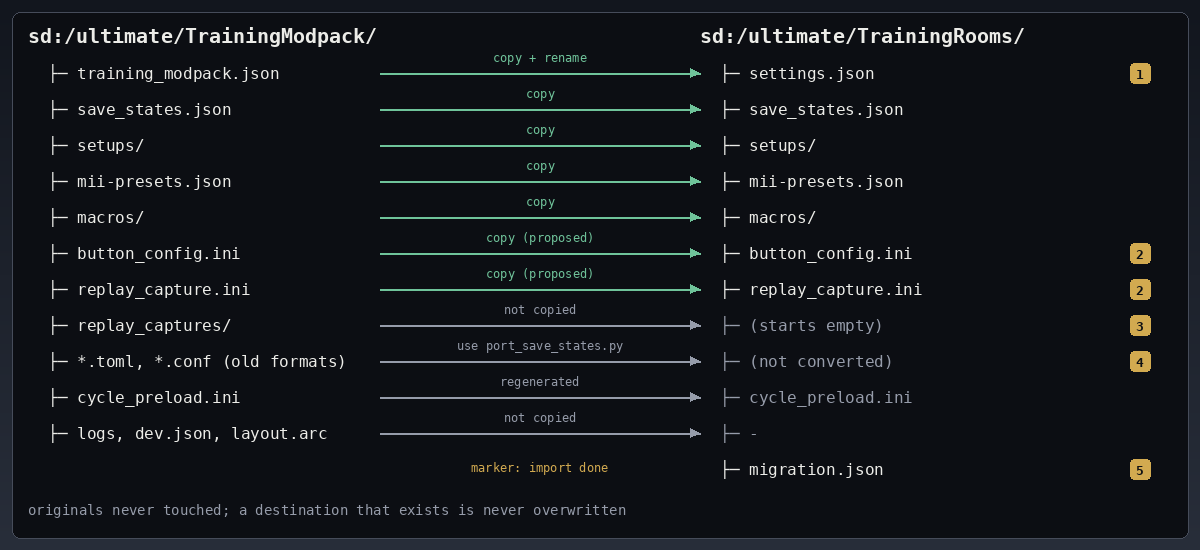
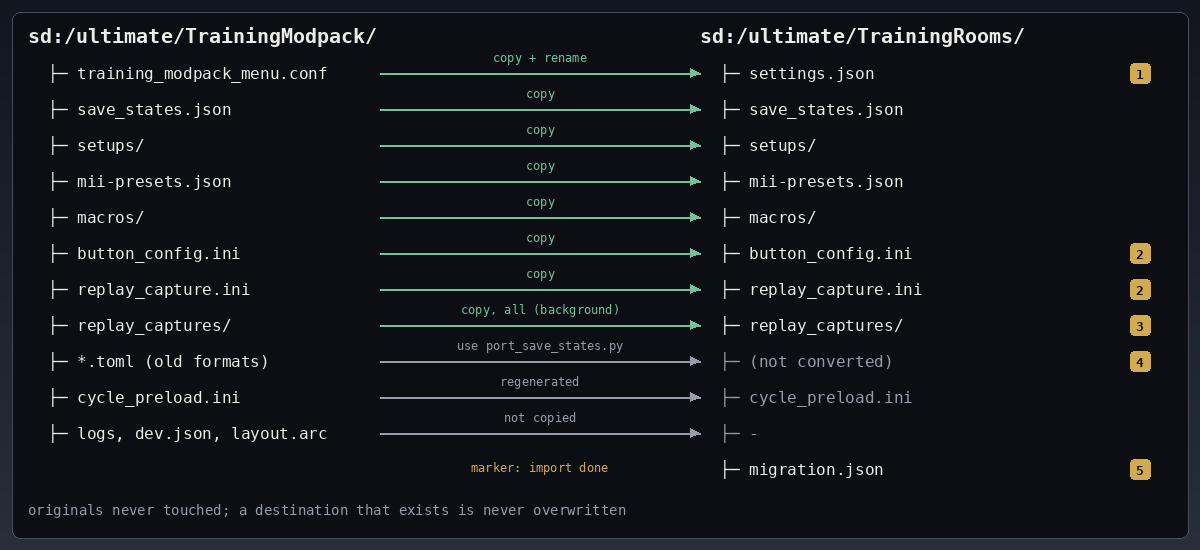
Fork settings source is training_modpack_menu.conf; unknown keys kept on rewrite (docs only)
- The fork keeps the player's menu settings in training_modpack_menu.conf;
  training_modpack.json is the updater record and is not imported (card listing
  switch-c1162-firstboot/list-TrainingModpack.txt). S1's meaning is unchanged.
  Corrected in DECISIONS.md, SPEC-core-04/-08, INDEX-core, SPEC-state-01,
  PROVENANCE.md, implementation-packages.md, CARD-SWAP-PLAN.md (plus the card's
  trace/debug files in "not copied"), and the S1 picture (INIs copied,
  replay_captures copied in full).
- SPEC-core-04: unknown settings keys round-trip on rewrite; retired keys dropped.
- Handoff: package 1 checkpoint (local branch work/implementation, not pushed).

diff --git a/tools/render_decisions.py b/tools/render_decisions.py
@@ -514,15 +514,15 @@ def d_import():
     c.rect(12, 12, WIDE - 12, 538, fill=PANEL, outline=LINE, radius=8)
     c.text(28, 24, "sd:/ultimate/TrainingModpack/", "h", FG)
     c.text(700, 24, "sd:/ultimate/TrainingRooms/", "h", FG)
-    rows_ = [("training_modpack.json", "settings.json", "1", OURS, "copy + rename"),
+    rows_ = [("training_modpack_menu.conf", "settings.json", "1", OURS, "copy + rename"),
              ("save_states.json", "save_states.json", None, OURS, "copy"),
              ("setups/", "setups/", None, OURS, "copy"),
              ("mii-presets.json", "mii-presets.json", None, OURS, "copy"),
              ("macros/", "macros/", None, OURS, "copy"),
-             ("button_config.ini", "button_config.ini", "2", OURS, "copy (proposed)"),
-             ("replay_capture.ini", "replay_capture.ini", "2", OURS, "copy (proposed)"),
-             ("replay_captures/", "(starts empty)", "3", MUTED, "not copied"),
-             ("*.toml, *.conf (old formats)", "(not converted)", "4", MUTED, "use port_save_states.py"),
+             ("button_config.ini", "button_config.ini", "2", OURS, "copy"),
+             ("replay_capture.ini", "replay_capture.ini", "2", OURS, "copy"),
+             ("replay_captures/", "replay_captures/", "3", OURS, "copy, all (background)"),
+             ("*.toml (old formats)", "(not converted)", "4", MUTED, "use port_save_states.py"),
              ("cycle_preload.ini", "cycle_preload.ini", None, MUTED, "regenerated"),
              ("logs, dev.json, layout.arc", "-", None, MUTED, "not copied"),
              (None, "migration.json", "5", ADV, "marker: import done")]

diff --git a/specs/INDEX-core.md b/specs/INDEX-core.md
@@ -12,7 +12,7 @@ Spec writer: Claude agent (Fable 5.1), 2026-11-01. Upstream baseline `97cbe9b9`;
 | `SPEC-core-04-menu-persistence.md` | draft | `src/common/menu.rs` (load/commit); `src/common/filesystem.rs` (writer, JSON/TOML helpers); `training_mod_consts/src/files.rs`; `training_mod_consts/src/config.rs` (updater file); `training_mod_consts/src/lib.rs` (`MenuJsonStruct`); `training_mod_tui/src/containers/app.rs` (serialization shape); `src/lib.rs` (legacy folder migration, loader thread) | `training_mod_consts/src/menu_json.rs` (envelope extensions `mii_preferences`/`stage_preferences`, stage-preference recovery, fixed-slot roster import, duplicate-key rejection); `training_mod_consts/src/lib.rs` 296-308 (envelope), per-field `serde(default)` on fork rows; `src/common/menu.rs` 95-97 (`cycle_preload.ini` overlay), 118-125; `src/common/filesystem.rs` 25-37, 55-91 (owned-trace write jobs) | `training_mod_consts/src/files.rs` 5-10 and `config.rs` 6-7, 16-17, 20-25, 35-47, 63, 65, 79, 82, 88, 96 (TOML→JSON for every config file; TOML 0.5 could not emit values after tables — the clean room has one serialization format); `src/common/filesystem.rs` 12-17 (64 KiB writer stack); retired keys accepted and ignored on load (`update_policy`, `menu_open_start_press`) |
 | `SPEC-core-05-layout-archive-and-hud.md` | draft | `src/training/ui/mod.rs` (draw hook on the layout vtable entry, archive hook, `fade_out`, `set_icon_text`); `src/training/ui/display.rs` (native combo-display toggle read); `src/common/mod.rs` (`PauseMenu` structure, `TRAINING_MENU_ADDR`); `src/common/offsets.rs` (`DRAW`, `LAYOUT_ARC_MALLOC`); `Cargo.toml` (`layout_arc_from_file`, `include-flate`, `sarc`) | `src/training/ui/mod.rs` 39-40, 288-305, 352-374 (waiting-room archive reconstruction), 143-230 waiting-host and replay/lobby lines inside `tick`, `waiting_archive.rs`, `layout_registry.rs` (registry name lookup, fork's own use); `anchors.rs` logging/probe lines | `src/training/ui/mod.rs` 29-102 and `archive_retirement.rs` (**REVISION33 archive lifetime**: inflate per load, park, release after 5 s on the heartbeat thread — required), 284-286 (pointer/size sanity bounds 4 B..16 MiB), 307-316 and `archive_name.rs` (**borrowed SARC directory lookup** instead of parsing/cloning the whole archive), 185-202 (HUD rule unchanged in substance); `anchors.rs` + `training_mod_macros/src/ui_anchor.rs` + `src/common/offsets.rs` 209-234 (**REVISION29/30 draw decoupling**: two inline anchors at the virtual-calculate call sites instead of replacing the shared vtable entry; manager located past another plugin's entry stub — adopted as the design); `native_menu.rs` + `display.rs` 28 (**combo-display read from the freshly loaded byte at two observed sites instead of a retained native pointer**); `training_mod_macros` pin verdict `site_owned_by_another_plugin` vocabulary |
 | `SPEC-core-06-hitbox-visualizer.md` | draft | `src/hitbox_visualizer/mod.rs` (`97cbe9b9` and `077a8e43`); `src/training/mod.rs` (per-frame call); `training_mod_consts/src/lib.rs` (`hitbox_vis` default) | `src/hitbox_visualizer/mod.rs` 224-225, 272, 328 (`practice::visualizes(accessor)` per-fighter gate for lobby practice — hook to carry) | `src/hitbox_visualizer/mod.rs` 354-367 (each of the three sites guarded and installed independently, all windows checked before any install); upstream `077a8e43` +4 (Training-only early return in the per-frame pass) |
-| `SPEC-core-08-storage-root-and-migration.md` (lead, 2026-11-01) | draft | none (project decision: storage root `sd:/ultimate/TrainingRooms/`; one-time first-boot import of the fork's `training_modpack.json`, `save_states.json`, `setups/`, `mii-presets.json`, `macros/`; originals untouched; marker `migration.json`) | the fork's file layout (`files.rs`, `menu_json.rs`, the libraries) carried over under the new root | decides SPEC-core-01 Q2 and SPEC-core-04 Q3 (and SPEC-input-01 #15, SPEC-state-01 #9); its own open questions were answered 2026-11-01 (S1): rename to `settings.json`, import both INIs, **`replay_captures/` imported in full without blocking the boot (N8)**, TOML-only cards not converted, re-run by the marker only; draft 9 adds the item-on-load conversion (N6) |
+| `SPEC-core-08-storage-root-and-migration.md` (lead, 2026-11-01) | draft | none (project decision: storage root `sd:/ultimate/TrainingRooms/`; one-time first-boot import of the fork's `training_modpack_menu.conf` (renamed `settings.json`), `save_states.json`, `setups/`, `mii-presets.json`, `macros/`; originals untouched; marker `migration.json`) | the fork's file layout (`files.rs`, `menu_json.rs`, the libraries) carried over under the new root | decides SPEC-core-01 Q2 and SPEC-core-04 Q3 (and SPEC-input-01 #15, SPEC-state-01 #9); its own open questions were answered 2026-11-01 (S1): rename to `settings.json`, import both INIs, **`replay_captures/` imported in full without blocking the boot (N8)**, TOML-only cards not converted, re-run by the marker only; draft 9 adds the item-on-load conversion (N6) |
 | `SPEC-core-07-assets-inventory.md` | draft | `src/static/img/*.svg` (42); `src/static/layout.arc` (member and pane names); `photos/*` (11 README images) | fork generators `scripts/roster-grid/*`, `scripts/stage-grid/*`, `scripts/item-icons/*`, `scripts/make_waiting_patch.py`, `scripts/waiting_patch_manifest.json`, `src/static/waiting_ui.patch` (all derived from the player's game files — carry over as tools); fork `layout.arc` additions (roster grid, stage grid, item icons) | none (the upstream artwork is replaced, not fixed): `check.svg` is Font Awesome Pro (commercial license), `m_retnormal.svg` is an Illustrator export that is most likely a game texture, the archive embeds game-owned stock files |
 
 ## Cross-area notes

diff --git a/specs/SPEC-core-04-menu-persistence.md b/specs/SPEC-core-04-menu-persistence.md
@@ -68,7 +68,7 @@ None in game memory. Files:
 
 - **Missing file**: factory settings; the file is created at the first close.
 - **Corrupt file** (not JSON, wrong types, missing required key, duplicate key): upstream deleted it on the spot and continued with factory settings. Recommendation (Q2): keep the file, rename it to `settings.invalid-<n>.json`, log, continue with factory settings; load every setting that parses and default the rest (per-field defaults).
-- **File from a newer build** with extra keys: loads; extras are ignored and **dropped on the next write** (the writer emits only known keys).
+- **File from a newer build** with extra keys: loads; extras are ignored and **kept on the next write** (lead decision 2026-11-02: unknown keys round-trip unchanged, so a newer build's file, or rows a package does not implement yet, survive a write by this build; only the retired keys `update_policy`, `menu_open_start_press` and `character_item` are dropped).
 - **File from an older build** with fewer keys: loads only if every known key has a default (clean room) — upstream would have deleted it.
 - **Upstream file in the user's old folder**: the key set and value shape are identical for all upstream rows, so an upstream `training_modpack_menu.conf` can be imported as-is (SPEC-core-01 Q2); `update_policy` and `menu_open_start_press` are ignored.
 - **Fork envelope**: `mii_preferences` (per role/class identity selectors; invalid selectors are dropped individually) and `stage_preferences` (mode, direct stage, forms; invalid content is rejected and the file is re-read without it, keeping the numeric settings and reporting the reason) — fork's own, carry over with its tests. The fork also imports retired fixed-slot roster keys of its own older builds (`trio_fighter_1..3`, `player_roster_4..8`, `cpu_roster_1..8`, `*_roster_size` one-hot arrays) into ordered rosters once and never writes them again — fork's own.
@@ -97,7 +97,7 @@ This spec *is* the persistence spec: file `sd:/ultimate/TrainingRooms/settings.j
 | --- | --- | --- | --- |
 | Wire shape: every setting an array in declaration order; OnOff `[1,0]`/`[0,1]`; sliders `[lower, upper]`; chord bit order | `core04_wire_shape_fixture` (fixture file pinned) | `core04-E1` read the file after a close | `docs/EDEN-RESULTS.md` |
 | Factory file round trip; defaults snapshot independent of settings | `core04_roundtrip_factory`, `core04_defaults_independent` | `core04-E2` X then restart then reset | — |
-| Unknown keys ignored and dropped on rewrite | `core04_unknown_keys_ignored` | — | — |
+| Unknown keys ignored on load and kept on rewrite; retired keys dropped | `core04_unknown_keys_ignored` | — | — |
 | Missing keys take defaults (every field) | `core04_missing_keys_default` | `core04-E3` older file | — |
 | Corrupt file: preserved under another name, factory used, logged | `core04_corrupt_file_policy` | `core04-E4` | `docs/EDEN-RESULTS.md` |
 | Duplicate key rejected | `core04_duplicate_key_error` | — | — |
@@ -112,7 +112,7 @@ This spec *is* the persistence spec: file `sd:/ultimate/TrainingRooms/settings.j
 
 1. **Byte-exact sample.** The writer did not transcribe a real upstream settings file (none is checked into either tree). Recommendation: capture one from an Eden run of the fork into the test fixtures before implementation, so the clean room's fixture is validated against a real file rather than this description.
 2. **Corrupt-file policy.** Upstream deletes; recommendation: preserve and rename, per-field defaults. Operator decision because it changes a user-visible recovery path. **Decided 2026-11-01 (S2): as recommended;** keep a renamed copy and load field by field.
-3. **File name and location.** `settings.json` under `sd:/ultimate/TrainingRooms/`; or keep upstream's `.conf` name for drop-in import. Recommendation: new name, plus a one-time import of the upstream file (SPEC-core-01 Q2). **Decided 2026-11-01 (S1 item 1, SPEC-core-08): `settings.json`;** the import copies the fork's `training_modpack.json` under that name, and the loader also accepts the old name once. (This spec's earlier working name `menu.json` is superseded.)
+3. **File name and location.** `settings.json` under `sd:/ultimate/TrainingRooms/`; or keep upstream's `.conf` name for drop-in import. Recommendation: new name, plus a one-time import of the upstream file (SPEC-core-01 Q2). **Decided 2026-11-01 (S1 item 1, SPEC-core-08): `settings.json`;** the import copies the fork's `training_modpack_menu.conf` under that name (corrected 2026-11-02; `training_modpack.json` is the updater record and is not imported), and the loader also accepts the old name once. (This spec's earlier working name `menu.json` is superseded.)
 4. **Updater config file.** With auto-update dropped, `training_modpack.json` has no reader. Recommendation: do not create it.
 5. **Asynchronous write.** Keep the writer thread (shared with save states and recordings) or write the small menu file synchronously at close. Recommendation: keep one writer thread with a 64 KiB stack for all files, flush on the panic path.
 6. **Pretty vs compact JSON.** Upstream pretty-printed. Recommendation: pretty, for hand editing.

diff --git a/specs/SPEC-core-08-storage-root-and-migration.md b/specs/SPEC-core-08-storage-root-and-migration.md
@@ -35,7 +35,8 @@ same card and a downgrade loses nothing.
   next boot (documented in the README). There is no menu row for it (S1 item 5,
   decided 2026-11-01).
 - **Draft 9 additions (decided 2026-11-01).** The import also (a) copies the
-  fork's `training_modpack.json` under the new name `settings.json` (S1 item 1);
+  fork's `training_modpack_menu.conf` (its settings file, JSON content) under the
+  new name `settings.json` (S1 item 1; corrected 2026-11-02);
   (b) copies `button_config.ini` and `replay_capture.ini` (S1 item 2);
   (c) copies `replay_captures/` **in full, with no size cap** (S1 item 3, N8),
   because it holds the companions the Replay Window crops macros from; it does
@@ -62,7 +63,7 @@ Imported (copied; the operator's list, 2026-11-01):
 
 | Source (`sd:/ultimate/TrainingModpack/`) | Destination (`sd:/ultimate/TrainingRooms/`) | What it holds | Rule |
 | --- | --- | --- | --- |
-| `training_modpack.json` | `settings.json` (S1 item 1, decided 2026-11-01; the loader also accepts the old name once) | menu settings and saved defaults (fork JSON envelope, SPEC-core-04); retired keys `update_policy`, `menu_open_start_press`, `character_item` ignored on load | copy if destination absent |
+| `training_modpack_menu.conf` | `settings.json` (S1 item 1, decided 2026-11-01; source name corrected 2026-11-02; the loader also accepts the old name once) | menu settings and saved defaults (fork JSON envelope, SPEC-core-04); retired keys `update_policy`, `menu_open_start_press`, `character_item` ignored on load | copy if destination absent |
 | `button_config.ini` | `button_config.ini` (S1 item 2, decided 2026-11-01) | the menu shortcuts (SPEC-input-04 §7); the file of record that the menu now edits | copy if destination absent |
 | `replay_capture.ini` | `replay_capture.ini` (S1 item 2) | the replay-capture on/off choice (`enabled=on/off`) | copy if destination absent |
 | `replay_captures/` (every file) | `replay_captures/` (S1 item 3, N8; decided 2026-11-01) | the match captures (`.smd`) the Replay Window crops macros from, in full, no size cap | copy each file if absent; **background, non-blocking** (§5); the originals stay |
@@ -75,8 +76,8 @@ Not migrated (and why):
 
 | Source | Why not |
 | --- | --- |
-| `training_modpack_menu.conf`, `training_modpack_menu_defaults.conf`, `training_modpack_menu.json`, `*.toml` | legacy formats of upstream and of the fork before its JSON port; the fork's `tools/port_save_states.py` converted them at the C116 upgrade; a card that has only these never ran the JSON fork (open question 4) |
-| `cycle_preload.ini` | a cache of menu choices the fork rewrites at boot; the imported settings file is authoritative and the plugin regenerates it |
+| `training_modpack.json` | the fork's updater record (`{"update":{"last_update_version":…}}`, 72 B on the card), not settings; the clean room has no updater (SPEC-core-04 Q4). Corrected 2026-11-02: an earlier draft named this file as the settings source |
+| `training_modpack_menu_defaults.conf`, `training_modpack_menu.json`, `*.toml` | legacy formats of upstream and of the fork before its JSON port; the fork's `tools/port_save_states.py` converted them at the C116 upgrade; a card that has only these never ran the JSON fork (open question 4). (`training_modpack_menu.conf` is not in this row: it is the settings file imported above.) || `cycle_preload.ini` | a cache of menu choices the fork rewrites at boot; the imported settings file is authoritative and the plugin regenerates it |
 | `practice-diagnostics.log`, `practice-diagnostics.previous.log`, `version.txt` | fork diagnostics and version stamp |
 | `dev.json`, `layout.arc` | development-only inputs of the fork (`dev_config`, `layout_arc_from_file`) |
 | the legacy root `sd:/TrainingModpack/` | upstream moved off it years ago; the fork migrated it into `sd:/ultimate/TrainingModpack/` already; not read |
@@ -200,8 +201,8 @@ else is the owning spec's file, now under the new root.
 ## 10. Open questions
 
 1. **File name of the settings file** under the new root: keep the fork's
-   `training_modpack.json` (zero change to the carried-over JSON code and the
-   fork's `port_save_states.py`) or rename it to `settings.json` at import
+   `training_modpack_menu.conf` (corrected 2026-11-02; an earlier draft said
+   `training_modpack.json`, which is the updater record) or rename it to `settings.json` at import
    (cleaner; one rename in the loader). Recommendation: rename; the loader
    also accepts the old name once. **Decided 2026-11-01 (S1 item 1): as recommended;** rename (the file is copied under the name `settings.json`).
 2. **Import `button_config.ini` and `replay_capture.ini`** as well? They are

diff --git a/PROVENANCE.md b/PROVENANCE.md
@@ -240,7 +240,7 @@ measurement (REVISION32) is an input to the size budget, not a rule.
 ## Open questions for the operator
 
 1. **MIT copyright holder.** Decided 2026-11-01: the handle; `LICENSE` reads `Copyright (c) 2026 intpa` and stays so.
-1a. **Storage root.** Decided 2026-11-01: `sd:/ultimate/TrainingRooms/`, with a one-time first-boot import of the fork's `training_modpack.json`, `save_states.json`, `setups/`, `mii-presets.json` and `macros/` by copying (originals untouched); what is not migrated and the five remaining choices are in `specs/SPEC-core-08-storage-root-and-migration.md`. The five were answered 2026-11-01 (S1): rename to `settings.json`, import both INIs, **import `replay_captures/` in full** (not as proposed; the Replay Window's crop source), TOML-only cards not converted, re-run by the marker only.
+1a. **Storage root.** Decided 2026-11-01: `sd:/ultimate/TrainingRooms/`, with a one-time first-boot import of the fork's `training_modpack_menu.conf` (renamed `settings.json`; corrected 2026-11-02, `training_modpack.json` is the updater record and is not imported), `save_states.json`, `setups/`, `mii-presets.json` and `macros/` by copying (originals untouched); what is not migrated and the five remaining choices are in `specs/SPEC-core-08-storage-root-and-migration.md`. The five were answered 2026-11-01 (S1): rename to `settings.json`, import both INIs, **import `replay_captures/` in full** (not as proposed; the Replay Window's crop source), TOML-only cards not converted, re-run by the marker only.
 2. **Fork docs and media.** The fork's docs (`docs/*.md`, GIFs, PNGs) are ours and carry over; the upstream `photos/` do not. Should the new README reuse the fork's walkthrough GIFs as-is (they show the old menu) or wait for the new menu? **Decided 2026-11-01 (B10): as recommended;** reuse the GIFs that show no menu now, and re-record the menu GIFs after the build.
 3. **Dev-only upstream code** (`dev_config.rs`, `debug.rs`, `raygun_printer.rs`): drop, or keep as `diag`-only behaviour in the clean room? **Decided 2026-11-01 (B9, with menu question 8): neither.** They ship as rows of the hidden *Developer* page (`dev_config` becomes *Reload developer config*, the debug hooks become *Debug hooks*, next to *Preload Samples*), enabled only when `sd:/ultimate/TrainingRooms/developer.ini` has `developer_page=on` (the operator's card and the Eden test profiles do); they are rebuilt from the descriptions in `specs/SPEC-core-01` §2 and §6, not copied. `raygun_printer.rs` is not described in any spec yet, so it has no row until it is.
 4. **`training_mod_sync`** is 36 lines of lock helpers around `parking_lot`; the clean room will use `parking_lot` directly unless you want the helper kept. **Decided 2026-11-01 (B9): `parking_lot` is used directly;** the helper crate is not kept.

diff --git a/docs/CARD-SWAP-PLAN.md b/docs/CARD-SWAP-PLAN.md
@@ -24,13 +24,15 @@ both hook the same sites (`DECISIONS.md` B1).
 
 | Fork file under `sd:/ultimate/TrainingModpack/` | TrainingRooms (`sd:/ultimate/TrainingRooms/`) | How |
 | --- | --- | --- |
-| `training_modpack.json` | `settings.json` | copied and renamed at first boot; setting ids unchanged; *Item on load* is converted once into each save's item snapshot (N6) and dropped |
+| `training_modpack_menu.conf` (the fork's settings, JSON content; 41,649 B on the card) | `settings.json` | copied and renamed at first boot; setting ids unchanged; *Item on load* is converted once into each save's item snapshot (N6) and dropped. Corrected 2026-11-02: an earlier draft named `training_modpack.json`, which is the updater record |
 | `save_states.json` (live) | `save_states.json` | copied at first boot; the file is the one on the card at that moment, so the operator can keep using the fork until the swap |
-| `setups/`, `mii-presets.json`, `macros/` | same names | copied |
+| `setups/`, `mii-presets.json`, `macros/` | same names | copied (the `switch-c1162-firstboot` card listing shows no `setups/` folder: that copy is then empty) |
 | `button_config.ini`, `replay_capture.ini` | same names | copied (S1 item 2); the menu now edits `button_config.ini` (N7) |
 | `replay_captures/` | `replay_captures/` | copied in full, no size cap, on a background thread after boot (N8); the Replay Window lists a capture once its copy is complete |
 | `cycle_preload.ini` | regenerated | not copied |
-| `*.toml`, `*.conf`, logs, `dev.json`, `layout.arc` | – | not copied |
+| `training_modpack.json` (updater record, 72 B) | – | not copied; the clean room has no updater |
+| `*.toml` (the listing shows `training_modpack.toml` and a legacy `save_states.toml` next to the live `save_states.json`), `training_modpack_menu_defaults.conf`, `training_modpack_menu.json`, logs, `dev.json`, `layout.arc`, `version.txt` | – | not copied (named in `SPEC-core-08` §4 *Not migrated*) |
+| `practice-trace*.bin` and `practice-trace*.map.json` (one `.bin` is 1.5 GB), `console-*.bin`, `console-*.log`, `native-unlink.bin`, the `handoff-*` folders, `backups/`, `install/`, `cpu_pilot/` (the pilot's own folder), `mii-editor-last.json` | – | not copied: fork trace, debug and tooling output. `SPEC-core-08` does not name them; its import list is a whitelist (§4 *Imported*), so they are skipped |
 | – | `developer.ini` (`developer_page=on`) | written by the install for the operator's card only (N1) |
 | – | `migration.json` | written by the import when it finishes (marker) |
 

diff --git a/TRAININGROOMS-HANDOFF.md b/TRAININGROOMS-HANDOFF.md
@@ -29,6 +29,20 @@ Updated 2026-11-01 (after the first push) by the lead (Claude agent `aa0f7d3da07
 - Next: merge `review/menu-proposal` into `work/implementation`; Switch build of package 1 (campaign toolchain on
   this Surface, `/home/intpa/smash-training-lobby/toolchain/`, when no Eden runs here, or the Yoga / Ally).
 
+### Package 1 checkpoint and a fact correction — 2026-11-02
+
+- `work/implementation` (local only): `39fd9e0` M1–M3 (crate skeleton per the playbook, carried version guard /
+  diag ring / seam-guard code from stage `m5o`, `settings.json`, Input Delay, L+R+A, hazard scans), `a3cebdc` M4
+  runtime (not yet Switch-compiled), `4138419` merge of `5e34c82`, `d7c6169` import plan. Host gates: `cargo test`
+  88 passed, clippy zero warnings, `--no-default-features` OK. Evidence: `CARRY-OVER.md`,
+  `IMPLEMENTATION-PROGRESS.md`, `docs/test-provenance/package-1.md` in that worktree.
+- Correction (implementer's finding, checked against the card listing `switch-c1162-firstboot/list-TrainingModpack.txt`):
+  the fork's settings live in `training_modpack_menu.conf` (41,649 B); `training_modpack.json` is the updater record
+  (72 B) and is not imported. S1's decision is unchanged in meaning; specs, plan and the S1 picture corrected.
+- Lead decision: unknown settings keys are kept on rewrite (`SPEC-core-04`); retired keys dropped.
+- Running: the implementer on the playbook's `model.rs` / `runtime.rs` roots, the Training reset hub (B8 clear on
+  reset and load), then the Switch build with the campaign toolchain on this Surface.
+
 ### Addendum 2026-11-02 (operator order via the primary): card swap and fixes in both trees
 
 - **Done** = a release candidate with the full gate, batched Eden rows, the playbook's online rows, compliance and an
@@ -325,7 +339,7 @@ on the operator's menu decisions.
 - MIT copyright line reads `Copyright (c) 2026 intpa` — **decided 2026-11-01:
   the handle.**
 - **Storage root decided 2026-11-01:** `sd:/ultimate/TrainingRooms/`; a
-  one-time first-boot import of the fork's `training_modpack.json`,
+  one-time first-boot import of the fork's `training_modpack_menu.conf`,
   `save_states.json`, `setups/`, `mii-presets.json`, `macros/` by copying,
   originals untouched, marker `migration.json`; not migrated: legacy
   TOML/`.conf`, the two INIs (recommended to add), `cycle_preload.ini`

diff --git a/docs/implementation-packages.md b/docs/implementation-packages.md
@@ -18,7 +18,7 @@ small enough to measure cleanly. Everything later plugs into this.
 | --- | --- | --- | --- |
 | Crate layout: `cdylib` only, `model` (host) / `runtime` (`target_os = "switch"`), `diag` feature, release profile per playbook | SPEC-core-01 | the fork's `src/model.rs` version guard (display version + GNU build-id, `model::verdict`) is ours and is reused as-is | `cargo test`, clippy `-D warnings`, `--no-default-features`, `cargo skyline build --release`, diag build |
 | Boot: version guard, site table with 64-byte guards, one install line to `sd:/ultimate/TrainingRooms/events.log`, size-capped diagnostics ring (the fork's `diag_ring`/`logging` ring is ours) | SPEC-core-01 | `src/diag_ring.rs`, the ring part of `src/logging.rs`, `training_mod_consts/src/native_seams/` (seam guards) | install line shows `result=installed heap_allocations=0`; card scan of every site |
-| Settings persistence: load/save the fork's `training_modpack.json` and `save_states.json` shapes, defaults, unknown-field tolerance | SPEC-core-04 | `training_mod_consts/src/menu_json.rs` and its fixtures (ours) | host tests on the ported-JSON fixtures |
+| Settings persistence: load/save the fork's settings (`training_modpack_menu.conf`, JSON content) and `save_states.json` shapes, defaults, unknown-field tolerance | SPEC-core-04 | `training_mod_consts/src/menu_json.rs` and its fixtures (ours) | host tests on the ported-JSON fixtures |
 | Menu **model** (pure, host-tested): pages, sections, dropdown, toggle, checklist, slider, editor rows, sub-screen stack, reset/save-defaults semantics | SPEC-core-02 + `docs/menu-redesign.md` | the fork's grids/lists/panels are carried over later as editor rows | host tests only; no rendering yet |
 | Input Delay | SPEC-input-03 | – | Eden: frame-counted delay check |
 | Stage Hazards | SPEC-state-07 | `src/hazard_manager/policy.rs` (ours) | Eden: hazard on/off on a hazard stage |

diff --git a/docs/DECISIONS.md b/docs/DECISIONS.md
@@ -220,8 +220,8 @@ passed on the patch's own builds; `PATCH.patch` is in the same folder); the pict
 
 The storage root and the import are decided. Five details remain; each has a numbered tag in the picture.
 
-- **1 · settings file name:** rename to `settings.json`, or keep `training_modpack.json`? *Rename*; the loader
-  also accepts the old name once.
+- **1 · settings file name:** rename to `settings.json`, or keep the fork's name `training_modpack_menu.conf`?
+  *Rename*; the loader also accepts the old name once.
 - **2 · the two INIs** (`button_config.ini`, `replay_capture.ini`): import them too? *Yes*, under the same
   rules, so shortcuts and the capture choice survive.
 - **3 · `replay_captures/`:** not imported (the Replay Window starts empty), or imported below a size cap
@@ -236,6 +236,8 @@ Cost: item 2 adds two small files to the copy list. The others cost nothing.
 ![S1 import details](decisions/S1-import-details.png)
 
 **Decided 2026-11-01: as recommended, except item 3.** `replay_captures/` holds the companions the Replay Window crops macros from (`docs/reference/named-macros.md` in the fork), so it is imported in full, with no size cap (N8).
+
+Corrected 2026-11-02: the source is `training_modpack_menu.conf`; `training_modpack.json` is the updater record and is not imported.
 
 ### S2 · Corrupt settings file (`SPEC-core-04` question 2)
 

diff --git a/specs/SPEC-state-01-save-load-core.md b/specs/SPEC-state-01-save-load-core.md
@@ -194,7 +194,7 @@ While either record of the selected slot is KillPlayer or WaitForAlive the plugi
 
 ### 7.1 Files
 
-Upstream wrote TOML to `sd:/ultimate/TrainingModpack/save_states.toml`. The fork's carried-over layer writes pretty JSON to `sd:/ultimate/TrainingModpack/save_states.json` (menu settings in `training_modpack.json` beside it) and ships `tools/port_save_states.py` to convert old TOML. This project's root is `sd:/ultimate/TrainingRooms/`; the file name `save_states.json` is the carried-over contract and the settings file is `settings.json` (SPEC-core-08; open question 9 on the root, decided).
+Upstream wrote TOML to `sd:/ultimate/TrainingModpack/save_states.toml`. The fork's carried-over layer writes pretty JSON to `sd:/ultimate/TrainingModpack/save_states.json` (menu settings in `training_modpack_menu.conf` beside it; corrected 2026-11-02, `training_modpack.json` is the updater record) and ships `tools/port_save_states.py` to convert old TOML. This project's root is `sd:/ultimate/TrainingRooms/`; the file name `save_states.json` is the carried-over contract and the settings file is `settings.json` (SPEC-core-08; open question 9 on the root, decided).
 
 The file is read once, lazily, on first use of the slots (upstream notes that reading it eagerly at plugin start crashed), and written whenever both fighters finish a Save, from the game thread.
 
